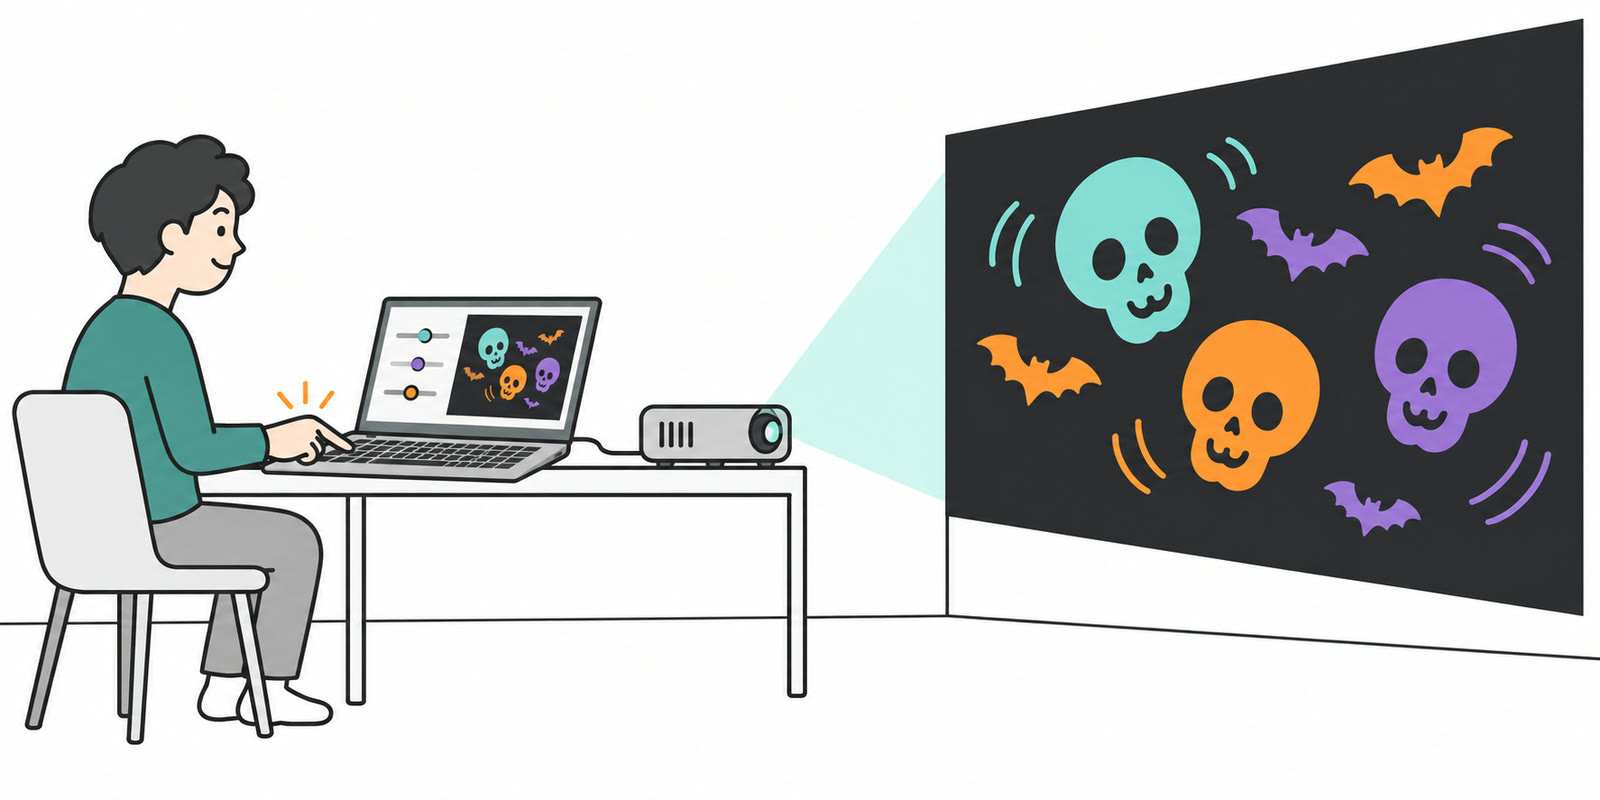
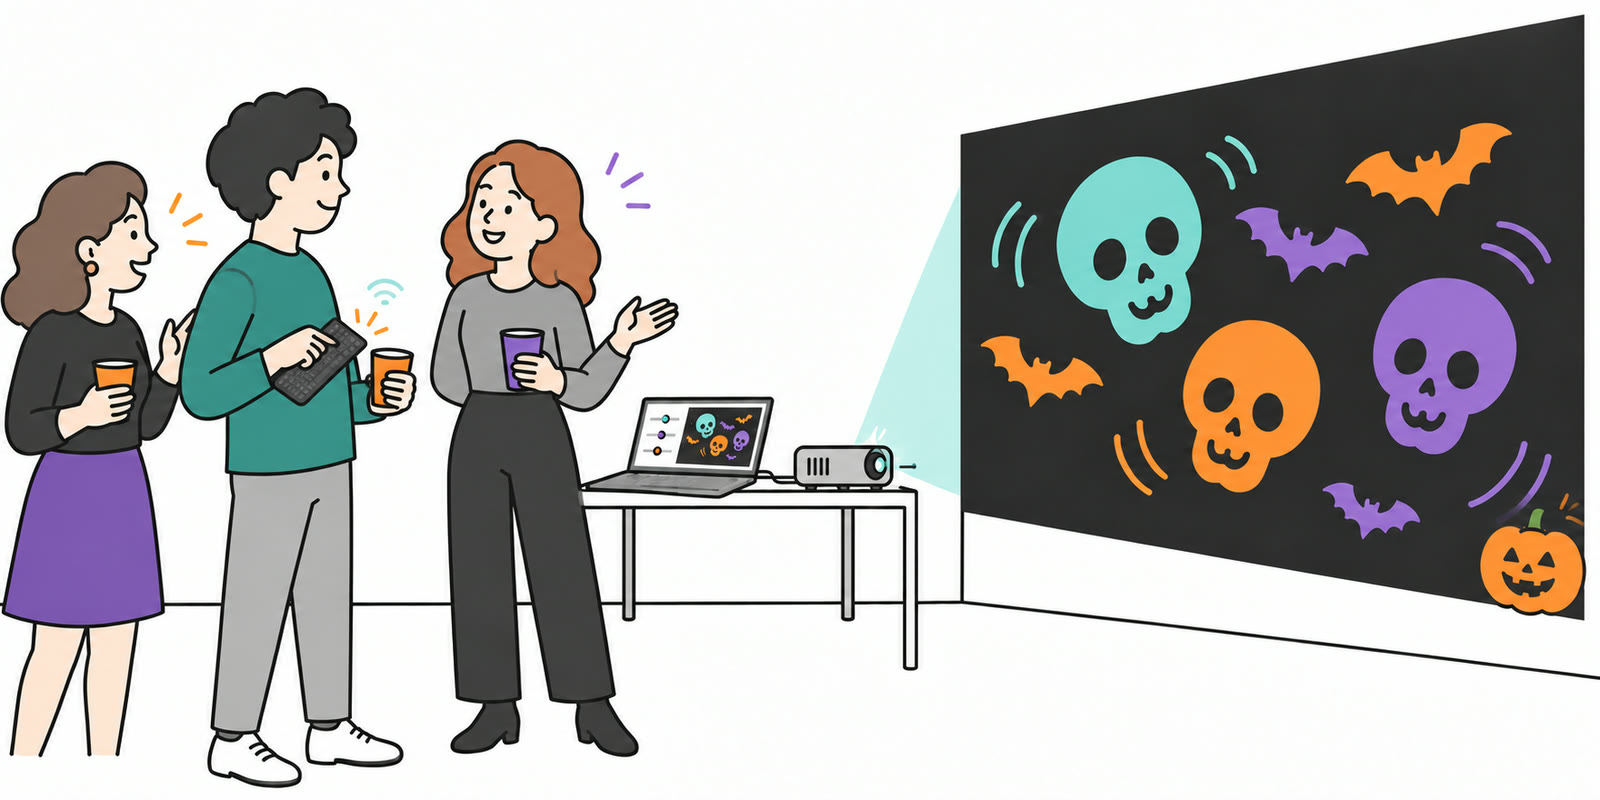
Show standing party use and optional portable projection in README

diff --git a/README.md b/README.md
@@ -2,7 +2,7 @@
 
 # キーボードで、壁や床をハロウィンに。
 
-<img src="docs/images/how-it-works.jpg" width="760" alt="普通のPCキーボードで操作する人、プロジェクター、壁に映るドクロとコウモリを描いた使い方のイラスト。">
+<img src="docs/images/how-it-works.jpg" width="760" alt="小型の無線キーボードを抱えてキーを押し、飲み物を持ったまま友人と話す人と、壁へのハロウィン投影を描いた使用イメージ。">
 
 *キーボードで投影映像を操る使用イメージ（図は説明用。実際の映像は下の画面例をご覧ください）。*
 
@@ -79,6 +79,16 @@
 最初はプロジェクターの明るさを控えめにし、小さいウィンドウで試してください。投影光を人の目へ向けず、明るく変化する映像が苦手な人にも配慮してください。設置・排熱はプロジェクターの説明書に従います。
 
 黒背景の沈み方や明るさは、プロジェクター・投影面・周囲の光で変わります。自動画面配置・台形補正・スマホ操作はありません。実プロジェクターや別PCでは、使用前の確認が必要です。
+
+## 持ち運べる投影セットと組み合わせる
+
+普段はPCとプロジェクターを机に置いて使えます。持ち出す場合には、スーツケース・ポータブル電源・三脚・プロジェクターを組み合わせ、屋外のパーティーやバンド演奏、ハロウィンイベントに映像を添える使い方もあります。スーツケースや専用の持ち運びセットは、アプリの利用に必須ではありません。
+
+屋外では、十分な暗さと投影面、会場の許可、足元や機材の固定など、安全に設置できる条件を確認してください。
+
+構成と作り方は、作者mamoの記事「[屋外プロジェクターを3分で設営する方法：ポータブルバッテリーと三脚で持ち運ぶ](https://qiita.com/moma42105016/items/85e66a60eb7b656c819c)」をご覧ください。
+
+<!-- PORTABLE_SETUP_ILLUSTRATION: Add only after the separately prepared concept illustration is received and reviewed; portable equipment is optional. -->
 
 ## 利用条件と改変
 

diff --git a/README.en.md b/README.en.md
@@ -2,7 +2,7 @@
 
 # Bring Halloween to walls and floors with your keyboard
 
-<img src="docs/images/how-it-works.jpg" width="760" alt="Illustration of a person using an ordinary PC keyboard, a projector, and skulls and bats projected onto a wall.">
+<img src="docs/images/how-it-works.jpg" width="760" alt="Illustration of a standing party guest using a compact wireless keyboard, holding a drink and talking with friends while Halloween visuals are projected onto a wall.">
 
 *Using a keyboard to control the projection. This is an explanatory illustration; see the browser captures below for the actual visuals.*
 
@@ -79,6 +79,16 @@ Switch between skulls and bats.
 Start with reduced projector brightness and a small window. Avoid directing the beam into people's eyes, and consider viewers sensitive to bright, rapidly changing imagery. Follow your projector's placement and ventilation instructions.
 
 How dark the black background appears depends on the projector, surface and ambient light. Automatic display placement, keystone correction and phone control are not provided. Check physical projector setups and other computers before use.
+
+## Pair it with a portable projection setup
+
+A PC and projector on a table are enough for the standard setup. For travel, a suitcase, portable power supply, tripod and projector can form a portable setup for an outdoor party, band performance or Halloween event. A suitcase or dedicated portable kit is optional for this app.
+
+Outdoor use depends on sufficient darkness, a suitable projection surface, venue permission and a safe place to secure the equipment and keep walking routes clear.
+
+For the equipment and assembly, see [mamo's portable outdoor projector setup guide on Qiita (in Japanese)](https://qiita.com/moma42105016/items/85e66a60eb7b656c819c).
+
+<!-- PORTABLE_SETUP_ILLUSTRATION: Add only after the separately prepared concept illustration is received and reviewed; portable equipment is optional. -->
 
 ## License and editing
 
